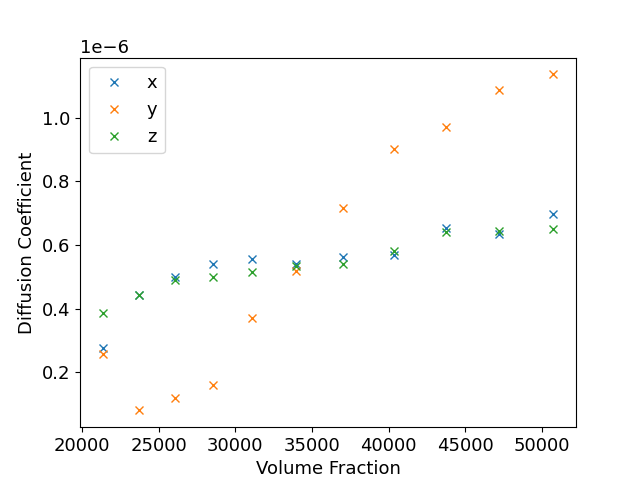
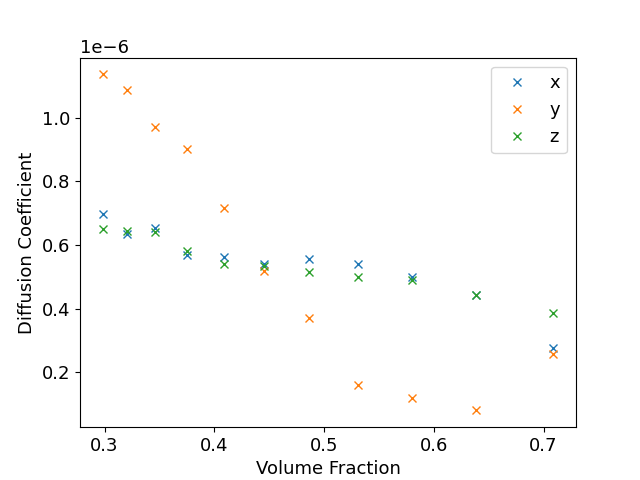
best fit implemented in diffusion coeff

diff --git a/Phase_Structure/Nunchucks/Fixed_Angle/Crystalline/Full Transition2/diffusion_coeff.py b/Phase_Structure/Nunchucks/Fixed_Angle/Crystalline/Full Transition2/diffusion_coeff.py
@@ -1,9 +1,10 @@
-"""Traditional method to calculate the pair-wise orientational order correlation function
-Uses the end-to-end molecule vector as the director"""
+"""Calculates the diffusion coefficient over each equillibration run. 
+Accounts for additional displacement when crossing the periodic boundary conditions"""
 
 import numpy as np
 import matplotlib.pyplot as plt
 from scipy.ndimage import uniform_filter1d  # for rolling average
+from scipy.stats import linregress  # for linear regression
 from phase_plot import vol_frac
 
 FILE_ROOT = "output_T_0.5_time_"  # two underscores to match typo in previous code
@@ -50,11 +51,11 @@ for i, line in enumerate(log_file):
         break  # got all data, break from for loop
 
     if "variable mix_steps" in line:  # to extract mix_steps (for shrinking)
-        run_num = 0  # counts number of runs
+        run_num_tot = 0  # counts number of runs
         for t in line.split():
             try:
                 mix_steps_values.append(int(t))
-                run_num += 1
+                run_num_tot += 1
             except ValueError:
                 pass
 
@@ -69,8 +70,9 @@ for i, line in enumerate(log_file):
 log_file.close()
 
 tot_mix_time = sum(mix_steps_values)
-run_time = tot_mix_time + run_num * equilibrium_time
+run_time = tot_mix_time + run_num_tot * equilibrium_time
 time_range = np.arange(0, int(run_time), int(dump_interval))
+eq_range = np.arange(0, int(equilibrium_time + dump_interval), int(dump_interval))
 print(
     "N_molecules, run_time, dump_interval = "
     + str((N_molecules, run_time, dump_interval))
@@ -141,9 +143,15 @@ else:
 
 volume_values = np.full(len(time_range), np.nan)  # new array of NaN
 
+# for ongoing measurements:
+rms_disp_values = np.full((run_num_tot, len(eq_range), dimension_num), np.nan)
+time_origin = 0
+run_num = 0
+
 # for sampled measurements:
 sampled_D_values = np.full((len(mix_steps_values), dimension_num), np.nan)
 sampled_vol_values = np.full(len(mix_steps_values), np.nan)
+equilibrium_flag = False  # denotes whether system is currently in an equillibrium run
 
 extra_displacement = np.zeros((N_molecules, 3))
 # additional values to account for crossing the boundaries of the box
@@ -200,12 +208,20 @@ for i, time in enumerate(time_range):  # interate over dump files
     data_file.close()  # close data_file for time step t
     volume_values[i] = box_volume
 
-    if time != 0:  # skip this for the first step
+    if time != 0:  # GIVE PREVIOUS DISPLACEMENT
         extra_displacement += periodic_bc_displacement(
             com_positions, previous_positions, box_dimensions
         )
 
-    if time in sampling_times:
+    if equilibrium_flag:  # MEASURE ONGOING RMS DISPLACEMENT
+        rms_disp_values[run_num, i - run_origin, :] = rms_displacement(
+            com_positions + extra_displacement,  # takes current values
+            initial_sample,  # reset for each eq run
+            use_vector=DIRECTIONAL_COEFF,
+        )
+
+    if time in sampling_times:  # MEASURE SAMPLING POINTS
+        print("T = " + str(time) + "/" + str(run_time))
         where_output = np.where(sampling_times == time)
         indices = (where_output[0][0], where_output[1][0])
         if indices[1] == 0:  # start of sampling period
@@ -213,6 +229,9 @@ for i, time in enumerate(time_range):  # interate over dump files
             sampled_vol_values[indices[0]] = box_volume
 
             extra_displacement = np.zeros_like(com_positions)  # reset for each sample
+
+            run_origin = i  # so ongoing measurement starts from zero each time
+            equilibrium_flag = True
         else:  # end of sampling period
             # print(extra_displacement) # useful to check you aren't getting silly values/multiple crossings
             sampled_rms = rms_displacement(
@@ -223,17 +242,69 @@ for i, time in enumerate(time_range):  # interate over dump files
             sampled_D_values[indices[0], :] = sampled_rms / (6 * equilibrium_time)
             # D value for i-th equillibration period
 
+            run_num += 1
+            equilibrium_flag = False
+
     previous_positions = com_positions
-    print("T = " + str(time) + "/" + str(run_time))
+    # print("T = " + str(time) + "/" + str(run_time))
 
 
 # print(sampled_D_values)
 # # NaN values correspond to a misalignment with dump frequency and the ends of each equillibration run
 # print(sampled_vol_values)
 
+plot_list = range(0, run_num_tot, 2)  # runs to plot (inc step if too many runs)
+
+sampled_vol_frac = vol_frac(sampled_vol_values, mol_length, N_molecules)
+
+fig, axs = plt.subplots(nrows=1, ncols=len(plot_list), sharey=True, figsize=(10, 5))
+for plot_index, data_index in enumerate(plot_list):
+    axs[plot_index].set_title(
+        r"$\phi =$" + "{:.2f}".format(sampled_vol_frac[data_index])
+    )
+    # print(rms_disp_values[data_index, :, 0])
+    rms_disp_values[data_index, 0, 0] = rms_disp_values[data_index, 1, 0]  # remove nan
+    eq_time_values = np.array(eq_range)
+    eq_time_values[0] = eq_time_values[1]  # remove zero so log can be evaluated
+
+    slope, intercept, r_value, p_value, std_err = linregress(
+        np.log10(eq_time_values), np.log10(rms_disp_values[data_index, :, 0])
+    )  # consider x axis for purpose of this
+    plot_best_fit = True
+
+    print(
+        "For vol frac = " + "{:.2f}".format(sampled_vol_frac[data_index]) + ", slope = "
+        "{:.2f}".format(slope)
+    )  # can add this onto graph with plt.annotate if desired
+
+    for j in range(dimension_num):
+        if plot_index == 0:  # for legend
+            axs[plot_index].loglog(
+                eq_range, rms_disp_values[data_index, :, j], label=axis_labels[j]
+            )
+        else:
+            axs[plot_index].loglog(eq_range, rms_disp_values[data_index, :, j])
+
+    if plot_best_fit == True:
+        axs[plot_index].plot(
+            eq_time_values,
+            (eq_time_values ** slope) * (10 ** intercept),
+            label="Best fit",
+            linestyle="dashed",
+        )
+
+axs[int(len(plot_list) / 2)].set_xlabel(
+    "Time (Arbitrary Units)"
+)  # use median of plot_list
+axs[0].set_ylabel("RMS displacement")
+fig.legend(loc="center right")
+plt.savefig("rms_displacement_runwise_bf.png")
+plt.show()
 
 for i in range(dimension_num):
-    plt.plot(sampled_vol_values, sampled_D_values[:, i], "x", label=axis_labels[i])
+    plt.plot(
+        sampled_vol_frac, sampled_D_values[:, i], "x", label=axis_labels[i],
+    )
 plt.ylabel("Diffusion Coefficient")
 plt.xlabel("Volume Fraction")
 plt.legend()

diff --git a/Phase_Structure/Nunchucks/Fixed_Rigidity/diffusion_coeff.py b/Phase_Structure/Nunchucks/Fixed_Rigidity/diffusion_coeff.py
@@ -1,9 +1,10 @@
 """Calculates the diffusion coefficient over each equillibration run. 
-Accounts for additional displacement when crossing the periodi cboundary conditions"""
+Accounts for additional displacement when crossing the periodic boundary conditions"""
 
 import numpy as np
 import matplotlib.pyplot as plt
 from scipy.ndimage import uniform_filter1d  # for rolling average
+from scipy.stats import linregress  # for linear regression
 from phase_plot import vol_frac
 
 FILE_ROOT = "output_T_0.5_time_"  # two underscores to match typo in previous code
@@ -251,21 +252,53 @@ for i, time in enumerate(time_range):  # interate over dump files
 # print(sampled_D_values)
 # # NaN values correspond to a misalignment with dump frequency and the ends of each equillibration run
 # print(sampled_vol_values)
+
+plot_list = range(0, run_num_tot, 1)  # runs to plot
+
 sampled_vol_frac = vol_frac(sampled_vol_values, mol_length, N_molecules)
 
-fig, axs = plt.subplots(nrows=1, ncols=run_num_tot, sharey=True, figsize=(10, 5))
-for n in range(run_num_tot):
-    axs[n].set_title(r"$\phi =$" + "{:.2f}".format(sampled_vol_frac[n]))
-    for j in range(dimension_num):
-        if n == 0:  # for legend
-            axs[n].loglog(eq_range, rms_disp_values[n, :, j], label=axis_labels[j])
-        else:
-            axs[n].loglog(eq_range, rms_disp_values[n, :, j])
+fig, axs = plt.subplots(nrows=1, ncols=len(plot_list), sharey=True, figsize=(10, 5))
+for plot_index, data_index in enumerate(plot_list):
+    axs[plot_index].set_title(
+        r"$\phi =$" + "{:.2f}".format(sampled_vol_frac[data_index])
+    )
+    # print(rms_disp_values[data_index, :, 0])
+    rms_disp_values[data_index, 0, 0] = rms_disp_values[data_index, 1, 0]  # remove nan
+    eq_time_values = np.array(eq_range)
+    eq_time_values[0] = eq_time_values[1]  # remove zero so log can be evaluated
 
-axs[int(run_num_tot / 2)].set_xlabel("Time (Arbitrary Units)")
+    slope, intercept, r_value, p_value, std_err = linregress(
+        np.log10(eq_time_values), np.log10(rms_disp_values[data_index, :, 0])
+    )  # consider x axis for purpose of this
+    plot_best_fit = True
+
+    print(
+        "For vol frac = " + "{:.2f}".format(sampled_vol_frac[data_index]) + ", slope = "
+        "{:.2f}".format(slope)
+    )  # can add this onto graph with plt.annotate if desired
+
+    for j in range(dimension_num):
+        if plot_index == 0:  # for legend
+            axs[plot_index].loglog(
+                eq_range, rms_disp_values[data_index, :, j], label=axis_labels[j]
+            )
+        else:
+            axs[plot_index].loglog(eq_range, rms_disp_values[data_index, :, j])
+
+    if plot_best_fit == True:
+        axs[plot_index].plot(
+            eq_time_values,
+            (eq_time_values ** slope) * (10 ** intercept),
+            label="Best fit",
+            linestyle="dashed",
+        )
+
+axs[int(len(plot_list) / 2)].set_xlabel(
+    "Time (Arbitrary Units)"
+)  # use median of plot_list
 axs[0].set_ylabel("RMS displacement")
 fig.legend(loc="center right")
-plt.savefig("rms_displacement_runwise.png")
+plt.savefig("rms_displacement_runwise2.png")
 plt.show()
 
 for i in range(dimension_num):

diff --git a/Phase_Structure/Nunchucks/Fixed_Angle/Crystalline/Full Transition2/diffusion_plots.py b/Phase_Structure/Nunchucks/Fixed_Angle/Crystalline/Full Transition2/diffusion_plots.py
@@ -1,5 +1,5 @@
-"""Traditional method to calculate the pair-wise orientational order correlation function
-Uses the end-to-end molecule vector as the director"""
+"""Calculates the rms displacement over the simulation, and diffusion coefficient over different timescales
+Plots these over time, including a directional approach (treating each coordinate separately)."""
 
 import numpy as np
 import matplotlib.pyplot as plt
@@ -223,7 +223,7 @@ print("Mean Diffussion Coefficients: " + str(np.nanmean(diffusion_coeff_values))
 for i in range(dimension_num):
     plt.plot(time_range, displacement_values[:, i], label=axis_labels[i])
 plt.xlabel("Time (arbitrary units)")
-plt.ylabel("Diffusion Coefficient")
+plt.ylabel("RMS displacement")
 plt.legend()
 plt.savefig("rms_displacement.png")
 plt.show()
@@ -263,7 +263,12 @@ plt.savefig("order_vs_diffusion.png")
 plt.show()
 
 for i in range(dimension_num):
-    plt.plot(sampled_vol_values, sampled_D_values[:, i], "x", label=axis_labels[i])
+    plt.plot(
+        vol_frac(sampled_vol_values, mol_length, N_molecules),
+        sampled_D_values[:, i],
+        "x",
+        label=axis_labels[i],
+    )
 plt.ylabel("Diffusion Coefficient")
 plt.xlabel("Volume Fraction")
 plt.legend()
